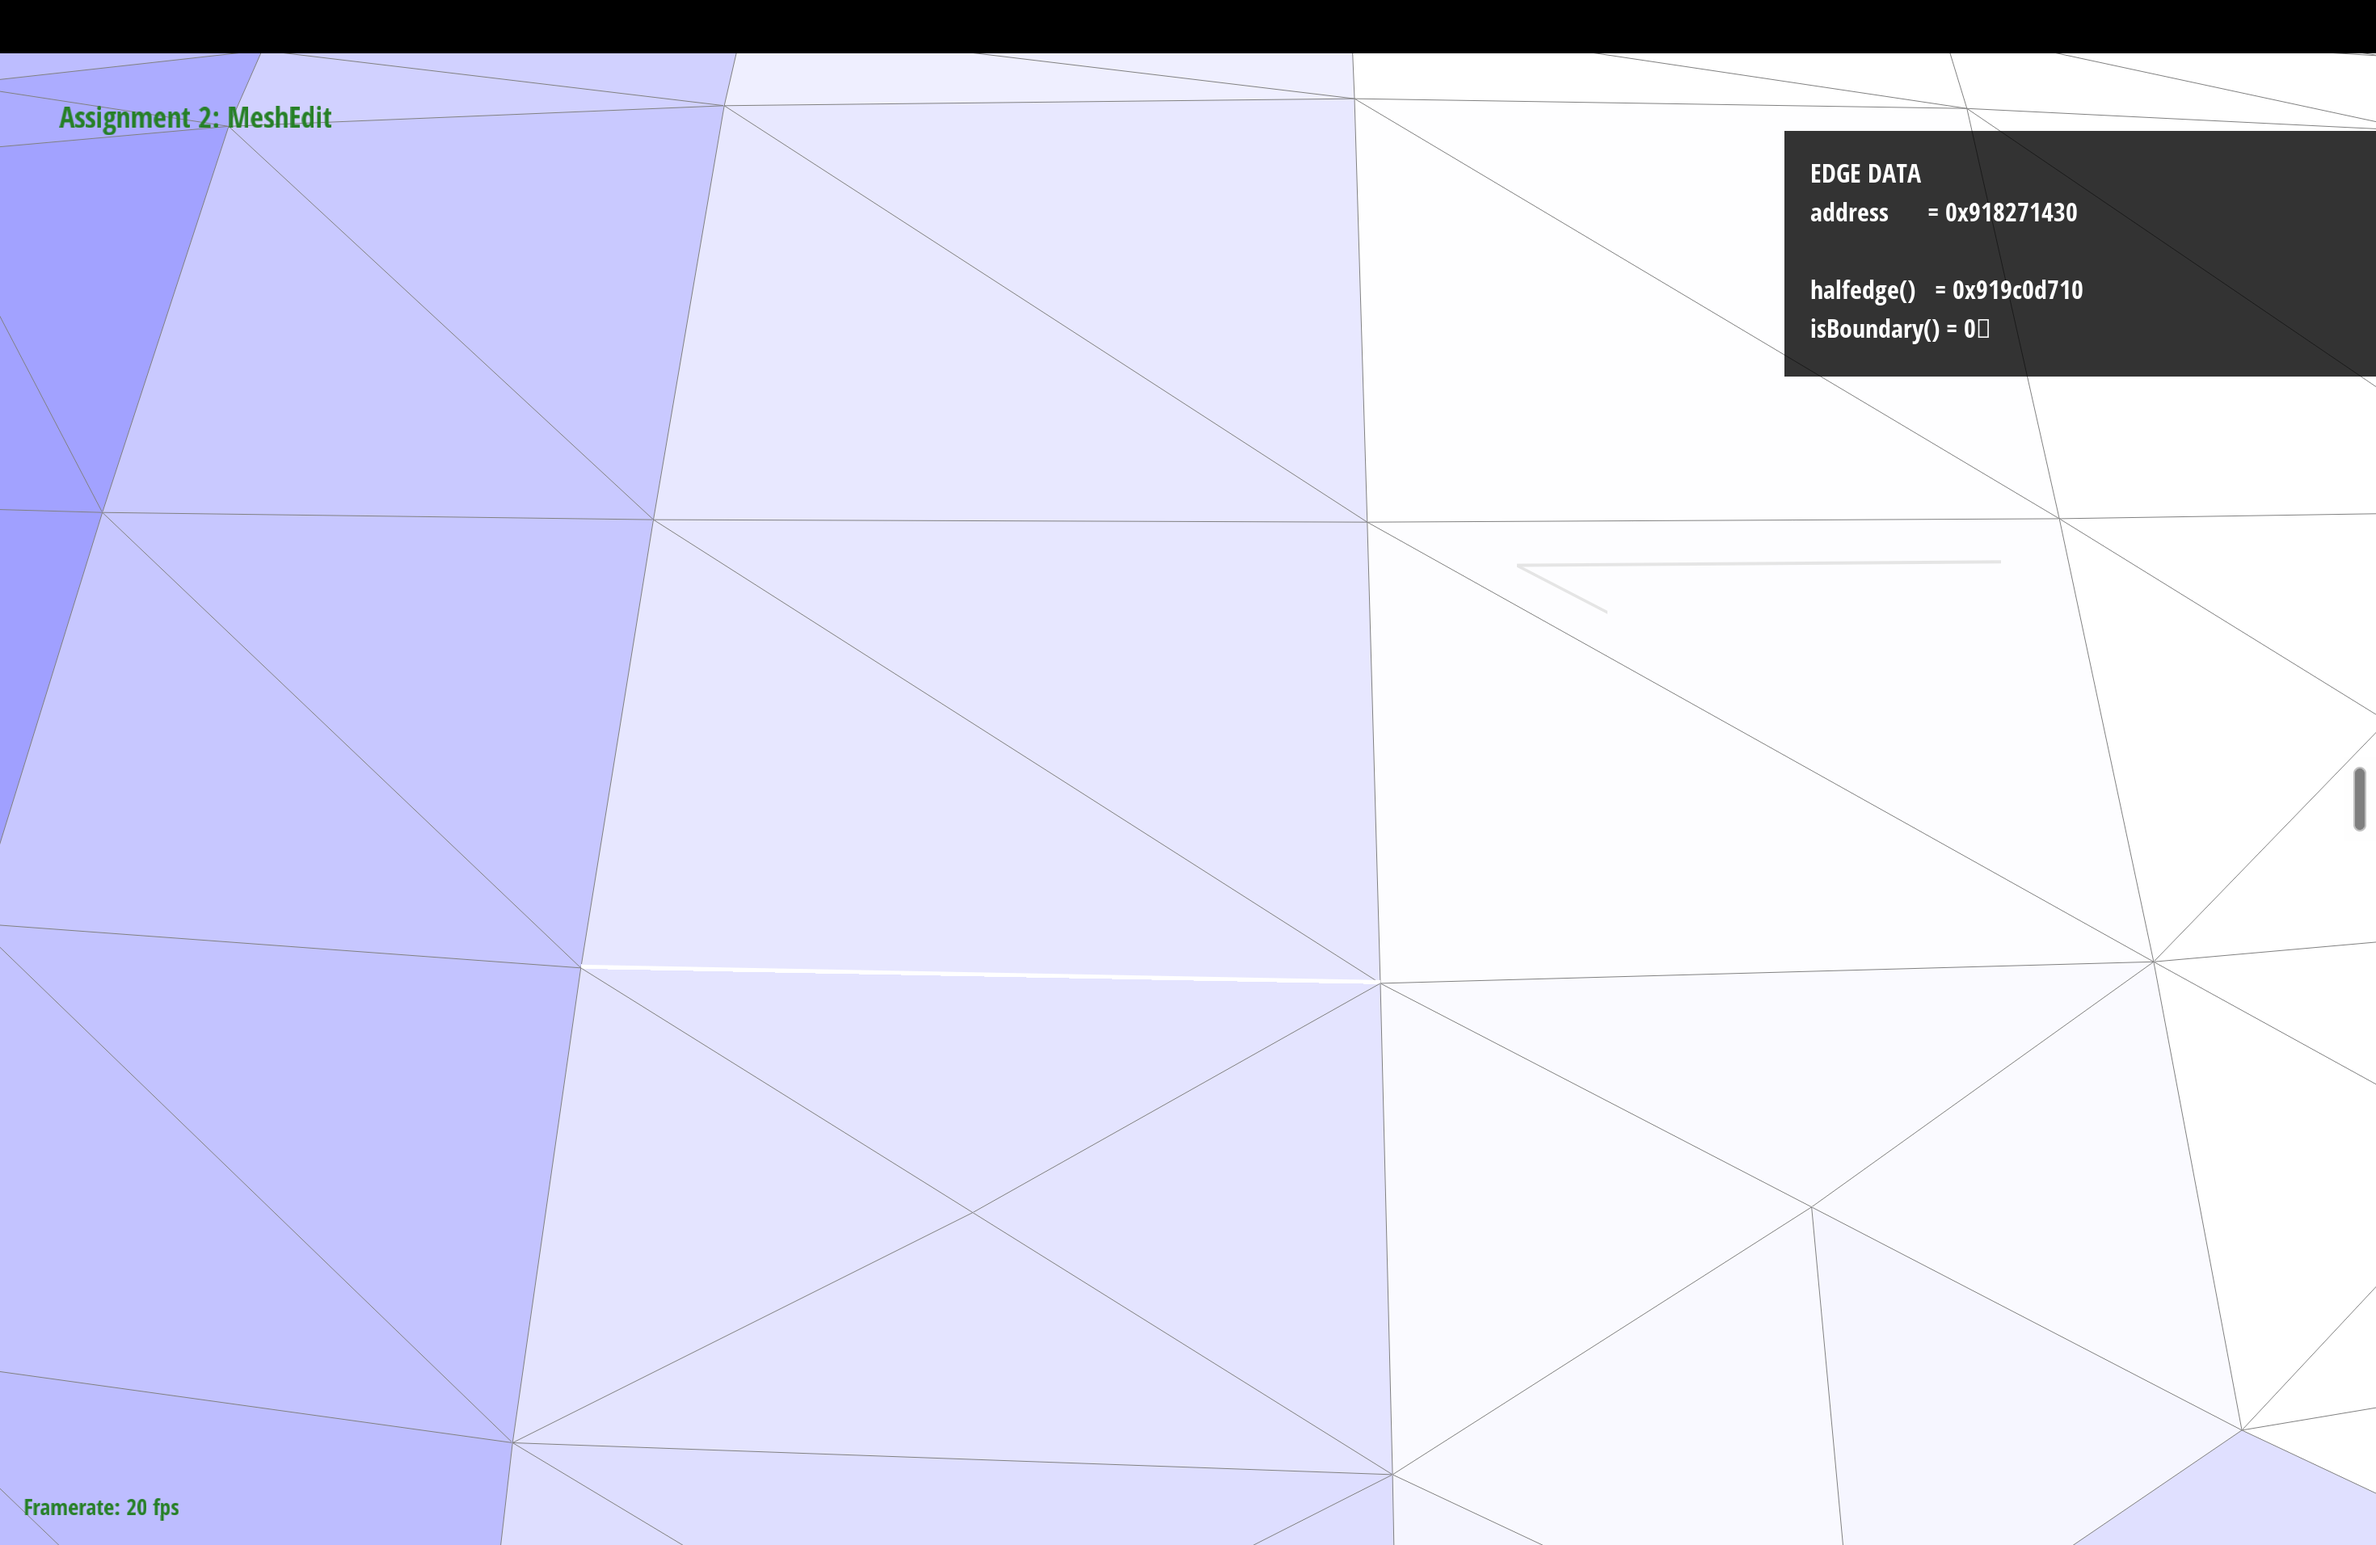
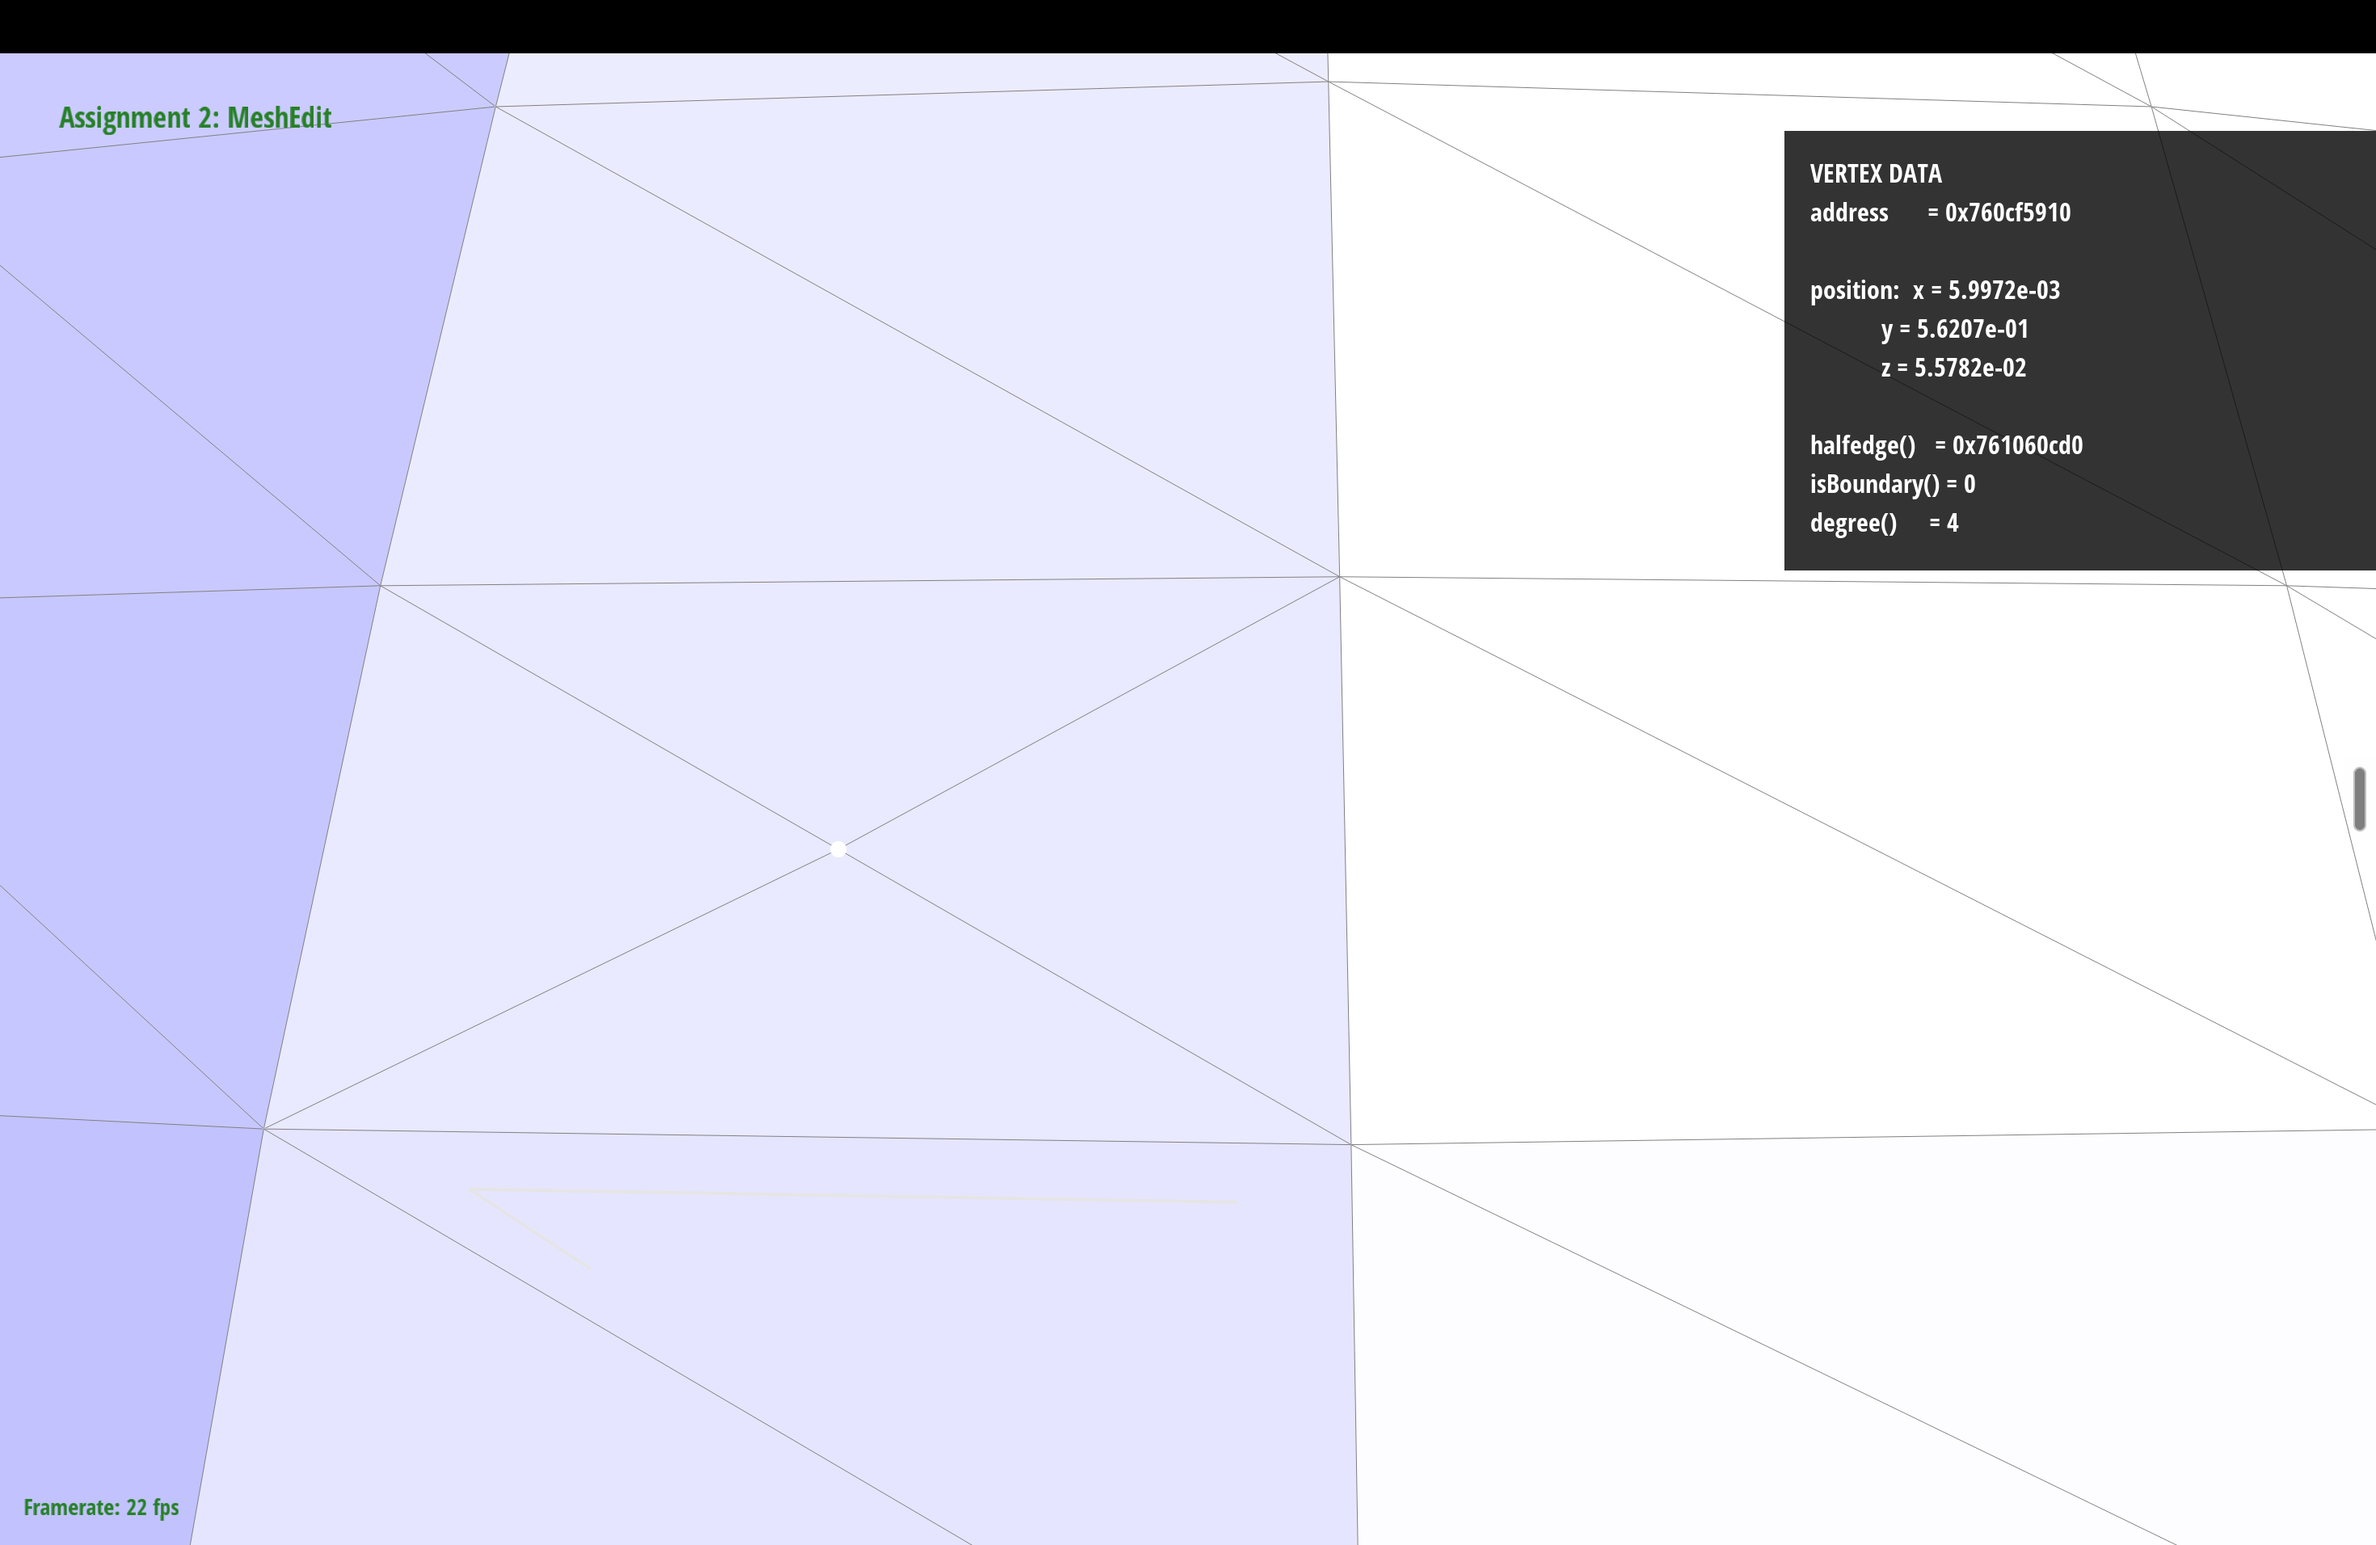
Add Part 4 flip close-up, Part 5 new-vertex close-up (degree 4), sharp-edge before/after

diff --git a/index.html b/index.html
@@ -282,6 +282,10 @@
 				<figure><img src="images/part4_before.png"/><figcaption>Before flipping (dae/teapot.dae).</figcaption></figure>
 				<figure><img src="images/part4_after.png"/><figcaption>After flipping several edges with <b>F</b>.</figcaption></figure>
 			</div>
+			<figure>
+				<img src="images/part4_closeup.png"/>
+				<figcaption>Close-up of a flipped cluster on the teapot body. The flipped edges stand out as long diagonals cutting across the otherwise regular triangulation.</figcaption>
+			</figure>
 
 			<h3>Part 5: Edge split</h3>
 			<p>
@@ -314,7 +318,7 @@
 				<figure><img src="images/part5_before.png"/><figcaption>Before any splits.</figcaption></figure>
 				<figure><img src="images/part5_split.png"/><figcaption>After splitting a few edges with <b>S</b>.</figcaption></figure>
 				<figure><img src="images/part5_flip_split.png"/><figcaption>A combination of flips and splits on the same region.</figcaption></figure>
-				<figure><img src="images/part5_detail.png"/><figcaption>Close-up showing the four triangles produced by one split.</figcaption></figure>
+				<figure><img src="images/part5_detail.png"/><figcaption>Close-up of a single split. The highlighted new vertex sits at the center of the four triangles the split produced (the panel confirms <code>degree() = 4</code>).</figcaption></figure>
 			</div>
 
 			<h3>Part 6: Loop subdivision for mesh upsampling</h3>
@@ -413,8 +417,14 @@
 			the effect is gradual: a light pre-split only slows the rounding a little, and you need a fair
 			amount of extra density concentrated at the feature before a crease visibly holds its shape.
 			It's really a trade of mesh size for sharpness, which is why dedicated sharp-crease schemes
-			exist rather than relying on plain Loop.
+			exist rather than relying on plain Loop. The pair below shows the experiment: both cubes are
+			subdivided the same number of times, but the one on the right had the edges around one corner
+			pre-split first, so that corner holds a tighter shape than the freely-rounded rest.
 			</p>
+			<div class="grid">
+				<figure><img src="images/part6_sharp_before.png"/><figcaption>No pre-splitting: the whole cube rounds off evenly.</figcaption></figure>
+				<figure><img src="images/part6_sharp_after.png"/><figcaption>Edges around one corner pre-split before subdividing: that corner stays comparatively sharper.</figcaption></figure>
+			</div>
 
 		</div>
 	</body>
